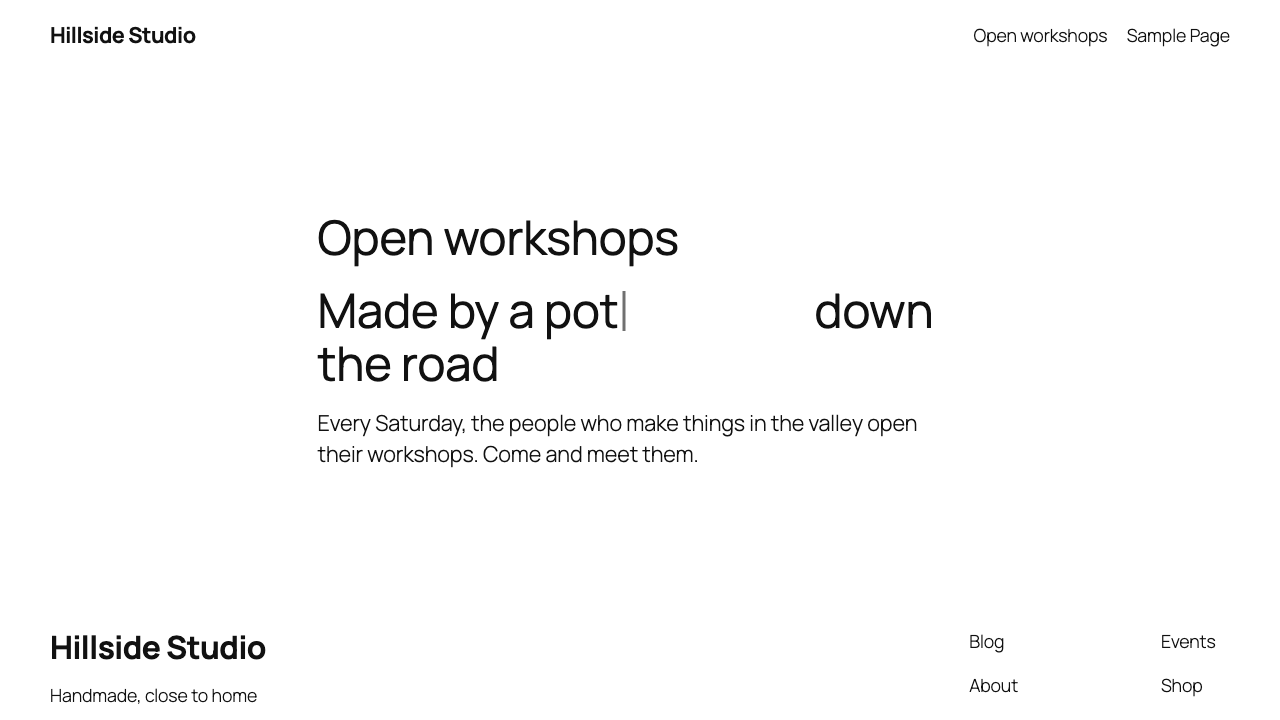
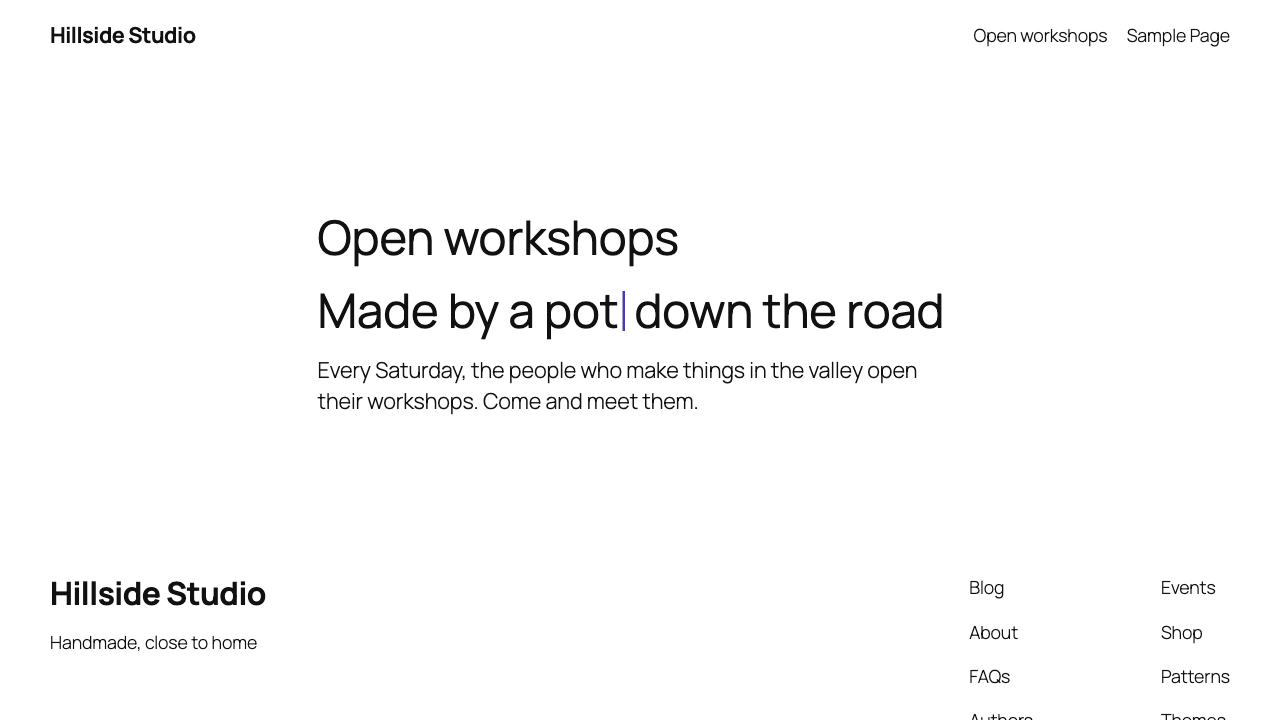
docs: document per-word settings and refresh the screenshots
The readme FAQ covers the popover settings, where they are stored and formatted words. README.md explains the storage choice and the front-end rules, the 1.0.0 changelog entry is rewritten, and both directory screenshots are captured again: the popover with its new settings, and the front end where the text follows the word.

diff --git a/README.md b/README.md
@@ -15,7 +15,7 @@
 
 > Submitted to the WordPress.org plugin directory, awaiting review.
 
-Select a word in a heading or a paragraph, choose **Retype** in the "More" dropdown of the formatting toolbar, type a few words separated by commas, and apply. On the front end the selected word is shown first, then erased and retyped with each word of the list, in a loop.
+Select a word in a heading or a paragraph, choose **Retype** in the "More" dropdown of the formatting toolbar, type a few words separated by commas, and apply. The popover can also set, for that word only, the delay per typed letter, the pause on each word and the caret color, taken from the theme palette. On the front end the selected word is shown first, then erased and retyped with each word of the list, in a loop.
 
 ## What it looks like
 
@@ -23,14 +23,14 @@ Select a word in a heading or a paragraph, choose **Retype** in the "More" dropd
 <tr>
 <td width="50%" valign="top">
 
-![The block editor with the heading "Made by a baker down the road". The word baker is underlined with dots, and a popover below it holds the field "Words to type, separated by commas" filled with potter, weaver, woodturner, an Apply button and a Remove format button.](.wordpress-org/screenshot-1.png)
+![The block editor with the heading "Made by a baker down the road". The word baker is underlined with dots, and a popover below it holds the field "Words to type, separated by commas" filled with potter, weaver, woodturner, a typing delay of 80 ms, a pause of 2 s, the theme palette with Accent 3 selected as caret color, an Apply button and a Remove format button.](.wordpress-org/screenshot-1.png)
 
-<em>The popover, opened on a word that already carries the format</em>
+<em>The popover, reopened on a word that already carries the format and its own settings</em>
 
 </td>
 <td width="50%" valign="top">
 
-![The same page on the front end. The heading reads "Made by a pot" followed by a caret, and the space of the longest word is kept free before "down the road".](.wordpress-org/screenshot-2.png)
+![The same page on the front end. The heading reads "Made by a pot" followed by a purple caret, and "down the road" follows right after it.](.wordpress-org/screenshot-2.png)
 
 <em>On the site, halfway through typing "potter"</em>
 
@@ -46,18 +46,30 @@ Select a word in a heading or a paragraph, choose **Retype** in the "More" dropd
 <span class="retype" data-retype-words="potter, weaver, woodturner">baker</span>
 ```
 
-`class` and `data-*` are global attributes for KSES (`_wp_add_global_attributes()`), so the markup survives `wp_kses_post()` for authors without `unfiltered_html`, and the plugin never touches the allow list. Deactivating the plugin leaves the selected word in the sentence and invalidates no block: the format is markup the paragraph and heading blocks already accept.
+The settings of a word are three more data attributes, each written only when it is set:
+
+```html
+<span data-retype-words="potter, weaver, woodturner" data-retype-type="80"
+  data-retype-hold="2000" data-retype-caret="var(--wp--preset--color--accent-3)"
+  class="retype">baker</span>
+```
+
+`data-retype-type` and `data-retype-hold` are milliseconds (the popover shows the pause in seconds). There is no erasing attribute: a word with its own typing delay erases at the site's ratio between the two delays, half with the defaults. `data-retype-caret` holds a palette color as its preset variable, so the caret follows the theme. A palette slug that WordPress would rename when it builds the variable (`accent1` becomes `--wp--preset--color--accent-1`) is saved as its plain color value instead, when that value is a hex, `rgb()` or `hsl()` color, rather than guessing the variable name.
+
+`class` and `data-*` are global attributes for KSES (`_wp_add_global_attributes()`), so the markup survives `wp_kses_post()` for authors without `unfiltered_html`, and the plugin never touches the allow list. The color is a data attribute rather than a custom property in `style` for the same reason: `style` goes through `safecss_filter_attr()`, which does keep a custom property today, but a data attribute depends on nothing, and it has no effect at all once the plugin is gone. Deactivating the plugin leaves the selected word in the sentence and invalidates no block: the format is markup the paragraph and heading blocks already accept.
+
+The script reads each attribute again and trusts none of them: delays go through the same validation and bounds as the filter, and the color is accepted only as a hex, `rgb()`, `rgba()`, `hsl()` or `hsla()` color with numeric components, or `var(--wp--preset--color--slug)`. Anything else is ignored. A valid color is applied with `element.style.setProperty( '--retype-caret', … )`, never written into markup, and removed when the animation stops.
 
 ### The front end only runs where the format is used
 
-The script and the stylesheet are registered on `init` and enqueued from `render_block`, the first time a rendered block contains `data-retype-words`. The attribute is the marker rather than the class name, which a theme could plausibly use for something else. A page without the format carries no reference to either file. The script has no dependency, is deferred, and is printed in the footer.
+The script and the stylesheet are registered on `init` and enqueued from `render_block`, the first time a rendered block contains the format: a `span` element with the `retype` class and a `data-retype-words` attribute. The markup is read with `WP_HTML_Tag_Processor`, after a plain text search that rules out most blocks, so the same characters escaped in a code block, in a comment or in an attribute value do not count. A page without the format carries no reference to either file. The script has no dependency, is deferred, and is printed in the footer.
 
 ### Accessibility, within the plugin's scope
 
 No plugin makes a site accessible on its own. What this one does:
 
 - The animated markup is built by the script. The original word goes in a visually hidden span, read once; the word being typed is `aria-hidden`. The heading's accessible name stays the original sentence, which was checked in an accessibility tree snapshot while the animation ran.
-- Under `prefers-reduced-motion: reduce` nothing is animated and the caret is not drawn. The script listens to the media query, so turning the setting on while reading restores the original word straight away.
+- Under `prefers-reduced-motion: reduce` nothing is animated and the caret is not drawn. The script listens to the media query, so turning the setting on while reading restores the original content straight away, exactly: the script keeps a copy of the span's children and its `style` attribute when it starts, and puts them back.
 - Without JavaScript the span is a plain word.
 - The loop stops while the tab is hidden (`visibilitychange`) and while the word is off screen (`IntersectionObserver`).
 
@@ -69,11 +81,21 @@ The word being typed takes its real width at every letter, so the rest of the se
 
 ### Text only, never HTML
 
-Every piece of text is inserted with `textContent`. The words come from a data attribute that an author typed, and they are never parsed as markup.
+Every piece of text is inserted as a text node. The words come from a data attribute that an author typed, and they are never parsed as markup.
+
+What the script animates is chosen conservatively:
+
+- Spaces at the edges of the selection stay outside the animation, so the words around the span keep their spacing.
+- A word whose text sits in a single text node, directly in the span or under a chain of single elements (`<strong><a>word</a></strong>`), is animated in place: the elements stay, only their text changes, and a link keeps its target and its accessible name. Any other content, such as a word bold in part, is not animated at all. Rebuilding markup an author made is the kind of thing that breaks quietly.
+- Letters are grapheme clusters (`Intl.Segmenter`, with `Array.from` as the fallback), so a composed emoji, a flag or a letter with a combining accent is never shown in halves.
+
+### Content that changes after load
+
+A light `MutationObserver` on the body watches for added nodes only, and scans the page when an added node is, or contains, `.retype[data-retype-words]`. The animation itself changes the data of a text node, which that observer does not see. A word removed from the page stops at its next tick (or at its next visibility change when it was off screen) and is forgotten.
 
 ### Delays are code, not settings
 
-`retype_delays` is the only configuration. There is no settings page and nothing in the database. The PHP side validates the filtered values and prints them only when they differ from the defaults, as a global defined before the script; the script validates the global again, since a theme can set it too. An inline script added `before` a deferred script keeps it deferred, which a test asserts on the printed tag.
+`retype_delays` sets the site defaults, and the popover sets the delays of one word in the post content. There is no settings page and no option in the database. The PHP side validates the filtered values and prints them only when they differ from the defaults, as a global defined before the script; the script validates the global again, since a theme can set it too. An inline script added `before` a deferred script keeps it deferred, which a test asserts on the printed tag.
 
 ### Why those minimum versions
 
@@ -102,7 +124,9 @@ add_filter(
 
 Missing keys keep their default. Numeric strings are accepted, values are rounded and confined to their bounds, and anything that is not a finite number, or a filter that returns something other than an array, falls back to the defaults.
 
-A script of your own can set `window.retypeDelays` with the same keys before `build/view.js` runs. The same validation applies.
+A script of your own can set `window.retypeDelays` with the same keys before `build/view.js` runs. The same validation applies. The settings of a word, set in the popover, take precedence over both.
+
+When the filter changes the delays, the editor script gets the same global, so the popover shows the site defaults rather than the plugin's.
 
 ## Installing from this repository
 
@@ -128,7 +152,7 @@ composer lint:php         # php -l over every PHP file
 composer test             # PHPUnit against a real WordPress, see CONTRIBUTING.md
 npm run lint:js           # ESLint with the WordPress config, plus Prettier
 npm run lint:style        # Stylelint
-npm run test:js           # Jest: word parsing and delay validation
+npm run test:js           # Jest: words, delays, colors, graphemes, popover values, and the front-end script in jsdom
 ```
 
 Plugin Check runs on the **built package**, in a directory named exactly `retype`, never on the source tree. CONTRIBUTING.md has the commands.

diff --git a/CHANGELOG.md b/CHANGELOG.md
@@ -17,28 +17,50 @@ First release.
 
 - `retype/retype` rich text format, with a toolbar button and a popover where
   the list of words is typed, comma separated. The button reopens the popover
-  on a word that already carries the format.
+  on a word that already carries the format, with its current values.
+- Settings per word in the popover: delay per typed letter, pause on each word
+  and caret color from the theme palette. They are saved as
+  `data-retype-type`, `data-retype-hold` (milliseconds) and
+  `data-retype-caret` on the span, only when set. Erasing follows the typing
+  delay at the site's ratio. Unset values fall back to the `retype_delays`
+  filter or `window.retypeDelays`, then to the defaults.
 - Front-end animation: the selected word is shown first, then erased and
   retyped letter by letter with each word of the list, in a loop, with a
-  blinking caret.
+  blinking caret. Defaults: 40 ms per typed letter, 20 ms per erased letter,
+  1.2 s pause.
 - The animated word takes its real width, so the text that follows moves along
   with the writing.
-- Animation paused while the tab is hidden or the word is off screen.
+- Letters are grapheme clusters (`Intl.Segmenter`, `Array.from` as the
+  fallback), so composed emoji, flags and combining accents stay whole.
+- Spaces at the edges of the span stay outside the animation. A word that is
+  entirely bold, italic or a link is animated inside that markup; a word with
+  any other content is not animated.
+- Animation paused while the tab is hidden or the word is off screen, using the
+  last entry of each `IntersectionObserver` batch. A word removed from the page
+  stops; a word added after load, detected by a `MutationObserver` limited to
+  added nodes that contain the format, is animated.
 - Original word given to screen readers once, the typed letters hidden from
-  them, and no animation under `prefers-reduced-motion: reduce`, including when
-  the preference changes while the page is open.
+  them, and no animation under `prefers-reduced-motion: reduce`. When the
+  preference changes while the page is open, the original content and `style`
+  attribute of each span are restored exactly, from a copy taken at start.
 - Front-end script and stylesheet enqueued from `render_block`, only on pages
-  that contain the format. The script is deferred and printed in the footer.
-- `retype_delays` filter, and a `window.retypeDelays` global, for the typing,
-  erasing and pause delays. Values are validated and bounded on both sides.
+  that contain the format, detected with `WP_HTML_Tag_Processor` as a `span`
+  with the `retype` class and the words attribute. The script is deferred and
+  printed in the footer.
+- `retype_delays` filter, and a `window.retypeDelays` global, for the default
+  typing, erasing and pause delays. Values are validated and bounded on both
+  sides, per word too. The filtered delays also reach the editor, where the
+  popover shows them as defaults.
 
 ### Notes
 
-- The saved markup is `<span class="retype" data-retype-words="…">word</span>`.
-  Both attributes are global attributes for KSES, so authors without
-  `unfiltered_html` can use the format, and deactivating the plugin leaves a
-  plain word in the sentence.
-- Words are only ever inserted with `textContent`.
+- The saved markup is `<span class="retype" data-retype-words="…">word</span>`,
+  plus the optional settings attributes. All of them are global attributes for
+  KSES, so authors without `unfiltered_html` can use the format, and
+  deactivating the plugin leaves a plain word in the sentence.
+- The caret color is validated by the script (hex, `rgb()`, `hsl()` or a theme
+  color preset) and applied with `style.setProperty()`.
+- Words are only ever inserted as text nodes.
 - No option in the database, no settings page, no outgoing request and no
   runtime Composer dependency.
 - The scripts and styles are built from `src/` with `@wordpress/scripts`.

diff --git a/CONTRIBUTING.md b/CONTRIBUTING.md
@@ -6,8 +6,8 @@ Thanks for looking. This is a small plugin with a narrow scope, and most of what
 
 Read the **Design decisions** section of [README.md](README.md). These are load-bearing, and a change that breaks one will be declined regardless of how well it is written:
 
-1. **The saved markup stays a plain span** with a class and a data attribute. Nothing that would need a KSES exception, and nothing that would invalidate a block once the plugin is gone.
-2. **Text goes in with `textContent`.** The words are never parsed as HTML.
+1. **The saved markup stays a plain span** with a class and data attributes. Nothing that would need a KSES exception, and nothing that would invalidate a block once the plugin is gone.
+2. **Text goes in as text nodes.** The words are never parsed as HTML, and the caret color is validated, then applied with `style.setProperty()`.
 3. **The original word is what assistive technology gets**, and nothing moves under `prefers-reduced-motion: reduce`.
 4. **The front-end assets load only where the format is used**, from `render_block`.
 5. **The toolchain is `@wordpress/scripts` and nothing else.** The `@wordpress/*` packages are devDependencies, externalised by webpack to the `wp.*` globals; nothing from `node_modules` ships.
@@ -103,7 +103,8 @@ With `WP_DEBUG` and `WP_DEBUG_LOG` on, front end and editor, in English and in a
 
 - the script and the stylesheet are on that page and not on a page without the format;
 - the heading's accessible name is the original sentence while the word animates;
-- with reduced motion emulated, the original word stays and nothing blinks;
+- with reduced motion emulated, the original word stays and nothing blinks, and switching it on mid-animation restores the span's original markup exactly;
+- the popover reopens a formatted word with its words, delays and caret color, and the front end uses them;
 - the text after the word follows it as it is typed and erased, and the word never breaks across two lines;
 - with the plugin deactivated, every block that used the format is still valid in the editor.
 
